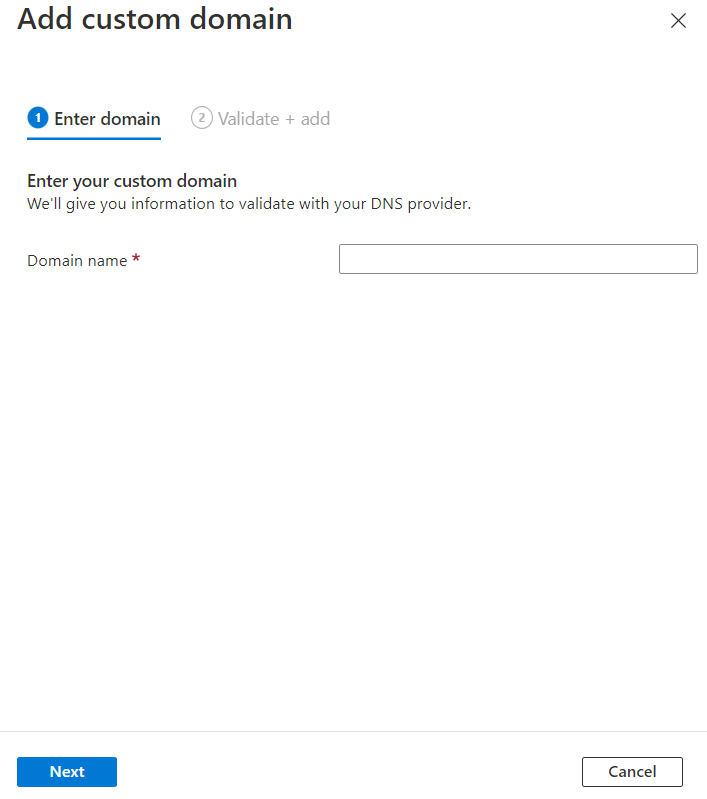
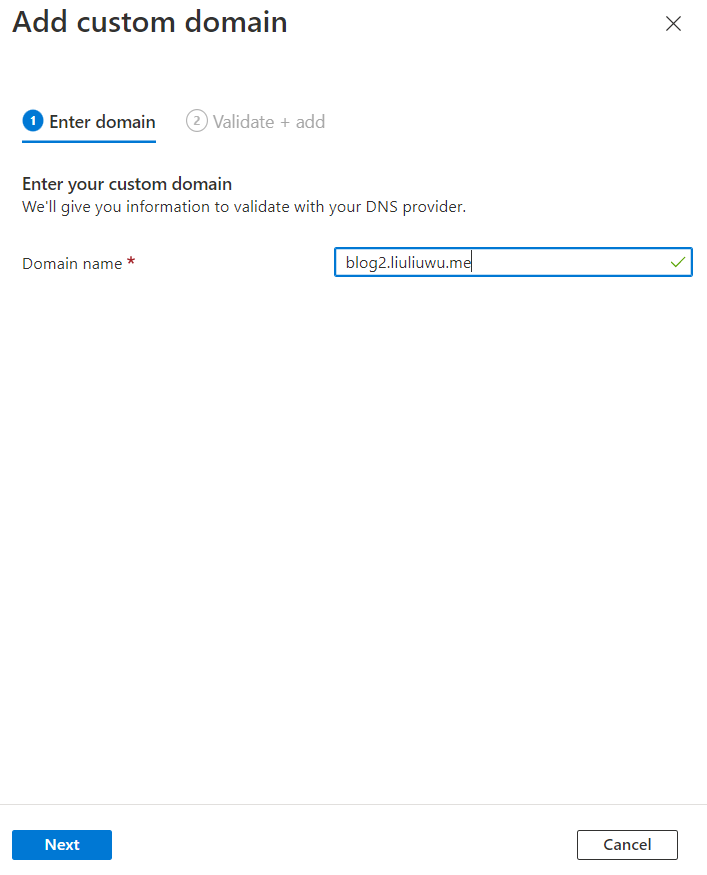
update

diff --git a/technique-azure-static-web-app.html b/technique-azure-static-web-app.html
@@ -130,8 +130,21 @@
             </p>
             <p>
               3. 填写create static web app表单
-              <img src="./assets/img/azure-static-web-app1.PNG" />
-              <img src="./assets/img/azure-static-web-app2.PNG" />
+              <img
+                style="width: 70%"
+                class="img-content"
+                src="./assets/img/azure-static-web-app1.PNG"
+              />
+              <img
+                style="width: 70%"
+                class="img-content"
+                src="./assets/img/azure-static-web-app2.PNG"
+              />
+              <img
+                style="width: 70%"
+                class="img-content"
+                src="./assets/img/azure-static-web-app3.PNG"
+              />
             </p>
             <p>
               &nbsp&nbsp3.1 subsription: 选择自己的订阅方式<br />
@@ -167,7 +180,12 @@
             </p>
             <p>&nbsp&nbsp3.8 review+create：点击创建即可</p>
             <p>
-              4. 创建完成之后会有如下所示界面，点击 browse，可预览搭建好的网站
+              4. 创建完成之后会有如下所示界面，点击
+              browse，或是URL网址，可预览搭建好的网站
+              <img
+                class="img-content"
+                src="./assets/img/azure-static-web-app4.PNG"
+              />
             </p>
             <h5>（可选）第三步，修改域名</h5>
             <p>
@@ -178,19 +196,29 @@
             <p>
               2. 在
               <a href="https://www.namecheap.com/">namecheap </a
-              >官网中增加一个新的“CNAME record”<br />
+              >登陆账号后，在"Domain
+              List"菜单栏找到自己的域名选择“manage”，点击“Advanced
+              DNS”，增加一个新的“CNAME record”<br />
+              <img class="img-content" src="./assets/img/namecheap1.PNG" />
+              <img class="img-content" src="./assets/img/namecheap.PNG" />
+              <img
+                class="img-content"
+                src="./assets/img/namecheap2.PNG"
+              /><br />
+
               host
               为域名，可以是“www”，或是自己命名的其他单词如本文中的“blog2”<br />value
               为初始网址“<a
-                href="https://orange-ground-092bd1c00.2.azurestaticapps.net"
-                >https://orange-ground-092bd1c00.2.azurestaticapps.net”</a
+                href="https://green-bay-076566700.2.azurestaticapps.net"
+                >https://green-bay-076566700.2.azurestaticapps.net”</a
               >除去“https://”后的部分，TTL
               可以理解为设定网页的最长加载时间，本文设定的是 1min。
             </p>
             <p>
               3. 回到azure网页，进入新建的static web app控制页面内，选择“custom
               domain”<br />点击添加按钮“add”，有两个选项：“Azure DNS”和“other
-              DNS”<br />本文中使用的是 namecheap 提供的 DNS，因此点击第二个。
+              DNS”<br />本文中使用的是 namecheap 提供的 DNS，因此点击第二个。<br />
+              <img class="img-content" src="./assets/img/domainDNS.PNG" />
             </p>
             <p>
               4. 在弹出的表单中填写域名（domain name）<br />由于在 namecheap
@@ -198,8 +226,24 @@
               name为“blog2”，因此表单中域名填写为“blog2.liuliuwu.me”，下一步点击
               add，等待认证（该认证过程需要关闭网络代理 VPN
               等服务，可能有延迟，如果显示验证失败，可以多等十几分钟后重复第4步骤重新验证）
+              <img
+                style="width: 50%"
+                class="img-content"
+                src="./assets/img/domain1.PNG"
+              />
+              <img
+                style="width: 50%"
+                class="img-content"
+                src="./assets/img/domainDNS2.PNG"
+              /><br />
             </p>
-            <p>5. 验证成功后，在“custom domain”页面显示了两条记录</p>
+            <p>
+              5. 验证成功后，在“custom domain”页面显示了两条记录
+              <img
+                class="img-content"
+                src="./assets/img/domainDNS3.PNG"
+              /><br />
+            </p>
             <p>
               6. 在网页中输入“<a href="https://blog2.liuliuwu.me"
                 >https://blog2.liuliuwu.me</a
@@ -214,9 +258,23 @@
               文件将会消失，而该文件是同步更新 github 与 azure
               静态网页的工作桥梁，消失后则无法实现自动更新网站内容。
             </p>
-            1. 解决办法：命令行中键入“git pull” ，将 remote 仓库中的 file
-            更新到本地
-            <p></p>
+            1. 解决办法：命令行中键入“git pull” ，将 remote 仓库同步更新到本地
+            <p>
+              2. 修改网页内容
+              <img class="img-content" src="./assets/img/change-master.PNG" />
+            </p>
+            <p>3.“git push”将commit之后的文件上传至master分支中</p>
+            <p>
+              4. 通过github action 看到自动更新进程
+              <img
+                class="img-content"
+                src="./assets/img/master-github-action.PNG"
+              />
+            </p>
+            <p>
+              5. 验证网页
+              <img class="img-content" src="./assets/img/test-master.PNG" />
+            </p>
           </div>
         </div>
       </div>

diff --git a/index.html b/index.html
@@ -41,9 +41,7 @@
       id="mainNav"
     >
       <div class="container px-4 px-lg-5">
-        <a class="navbar-brand" href="index.html"
-          >Liuliu's live Blog - test2 for demo branch</a
-        >
+        <a class="navbar-brand" href="index.html">Liuliu's live Blog</a>
         <button
           class="navbar-toggler navbar-toggler-right"
           type="button"
@@ -148,7 +146,7 @@
           <div class="col-lg-3 col-md-6 text-center">
             <div class="mt-5">
               <div class="mb-2">
-                <i class="bi-laptop fs-1 text-primary"></i>
+                <i class="bi bi-film fs-1 text-primary"></i>
               </div>
               <h3><a class="h4 mb-2" href="movie.html">movie</a></h3>
               <p class="text-muted mb-0">

diff --git a/css/styles.css b/css/styles.css
@@ -641,7 +641,15 @@ progress {
   max-width: 100%;
   height: auto;
 }
-
+.img-content {
+  display: block;
+  margin-left: auto;
+  margin-right: auto;
+  padding-top: 1rem;
+  padding-bottom: 1rem;
+  max-width: 90%;
+  height: auto;
+}
 .img-thumbnail {
   padding: 0.25rem;
   background-color: #fff;
